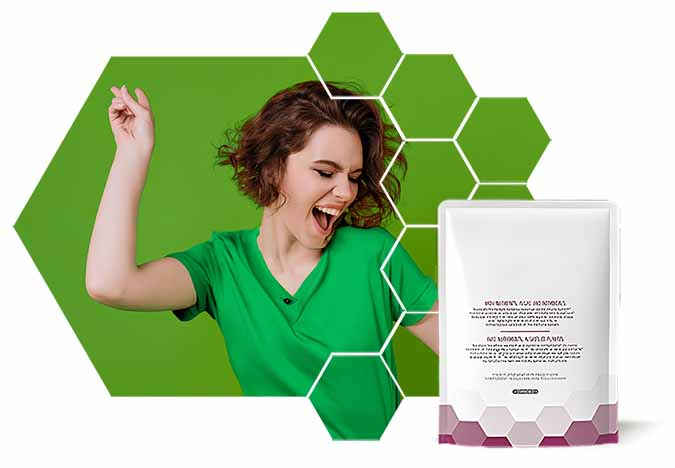
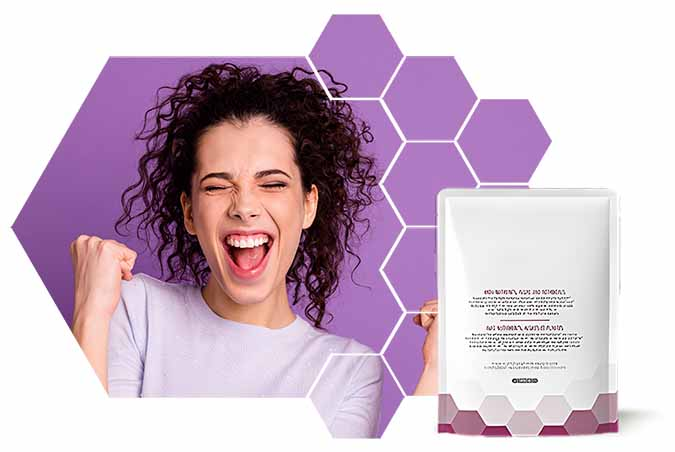
corriger(server.ts) : changer la casse de la variable de port de minuscules à majuscules (PORT) fonctionnalité(server.ts) : ajouter la prise en charge de la variable d'environnement process.env.PORT
corriger(DetoxIllusText450.jpg) : les fichiers binaires Diffèrent
corriger(DetoxIllusText675.jpg) : les fichiers binaires Diffèrent
corriger(DetoxIllusText900.jpg) : les fichiers binaires Diffèrent

corriger(Description.js) : ajouter la couleur du texte du thème à la balise h3
corriger(Description.js) : ajouter la couleur du texte du thème à la balise h3

corriger(productList.js) : changer les noms des propriétés subTitle et text en subTitleLove et textLove respectivement
corriger(productList.js) : changer les noms des propriétés subTitle et text en subTitleLove et textLove respectivement

corriger(productList.js) : ajouter les couleurs du thème à l'objet de produit
corriger(productList.js) : ajouter les couleurs du thème à l'objet de produit

corriger(_productCard.scss) : commenter la couleur du texte pour le moment

diff --git a/frontend/src/data/productList.js b/frontend/src/data/productList.js
@@ -53,11 +53,13 @@ export const productList = [
           text: "Optez pour notre détox’, c’est choisir un produit révolutionnaire conçu pour vous aider à atteindre vos objectifs de perte de poids tout en favorisant un bien-être optimal."
         },
         {
-          subTitle: "Vous aimerez aussi…",
-          text: "La détox’ étant la base de toute cure minceur, nos gouttes super puissantes devraient également vous intéresser pour perdre du poids sans effet yoyo."
+          subTitleLove: "Vous aimerez aussi…",
+          textLove:
+            "La détox’ étant la base de toute cure minceur, nos gouttes super puissantes devraient également vous intéresser pour perdre du poids sans effet yoyo."
         },
         {
-          text: "Si votre système digestif et intestinal sont déséquilibrés, les pré-probiotiques devraient réguler tout ceci ou avec un apport de légumes et vitamines via la détox végétale."
+          textLove:
+            "Si votre système digestif et intestinal sont déséquilibrés, les pré-probiotiques devraient réguler tout ceci ou avec un apport de légumes et vitamines via la détox végétale."
         }
       ]
     },
@@ -65,7 +67,11 @@ export const productList = [
     secondCategory: [
       getSecondCategoryById("0GestionDuPoids0Detoxification").text
     ],
-    picture: "./img/jpg/product/detox.jpg"
+    picture: "./img/jpg/product/detox.jpg",
+    colors: {
+      textColor: "#7e1450",
+      borderColor: "1px solid #7e1450"
+    }
   },
   {
     nameProduct: "BB",

diff --git a/frontend/src/components/Description.js b/frontend/src/components/Description.js
@@ -1,6 +1,7 @@
 import React from "react";
 
 const Description = ({ productDescription }) => {
+  const themeColors = productDescription.product.colors;
   return (
     <>
       <div className="bgParagraph">
@@ -16,7 +17,14 @@ const Description = ({ productDescription }) => {
             >
               {index === 1 && (
                 <div>
-                  <h3> {productDescription.subTitle} </h3>
+                  <h3
+                    style={{
+                      color: themeColors.textColor
+                    }}
+                  >
+                    {" "}
+                    {productDescription.subTitle}{" "}
+                  </h3>
                   <p>{productDescription.text}</p>
                 </div>
               )}
@@ -42,10 +50,18 @@ const Description = ({ productDescription }) => {
               )}
               {index !== 1 && (
                 <>
-                  <h3> {productDescription.subTitle} </h3>
+                  <h3
+                    style={{
+                      color: themeColors.textColor
+                    }}
+                  >
+                    {" "}
+                    {productDescription.subTitle}{" "}
+                  </h3>
                   <p>{productDescription.text}</p>
                 </>
               )}
+              <div></div>
             </div>
           )
         )}

diff --git a/frontend/src/sass/themes/largeScreen/_productCard.scss b/frontend/src/sass/themes/largeScreen/_productCard.scss
@@ -63,7 +63,7 @@
 
   h3 {
     padding: 20px 0 0 100px;
-    color: $bgColor5;
+    // color: $bgColor5;
     letter-spacing: 2px;
     text-transform: uppercase;
   }
